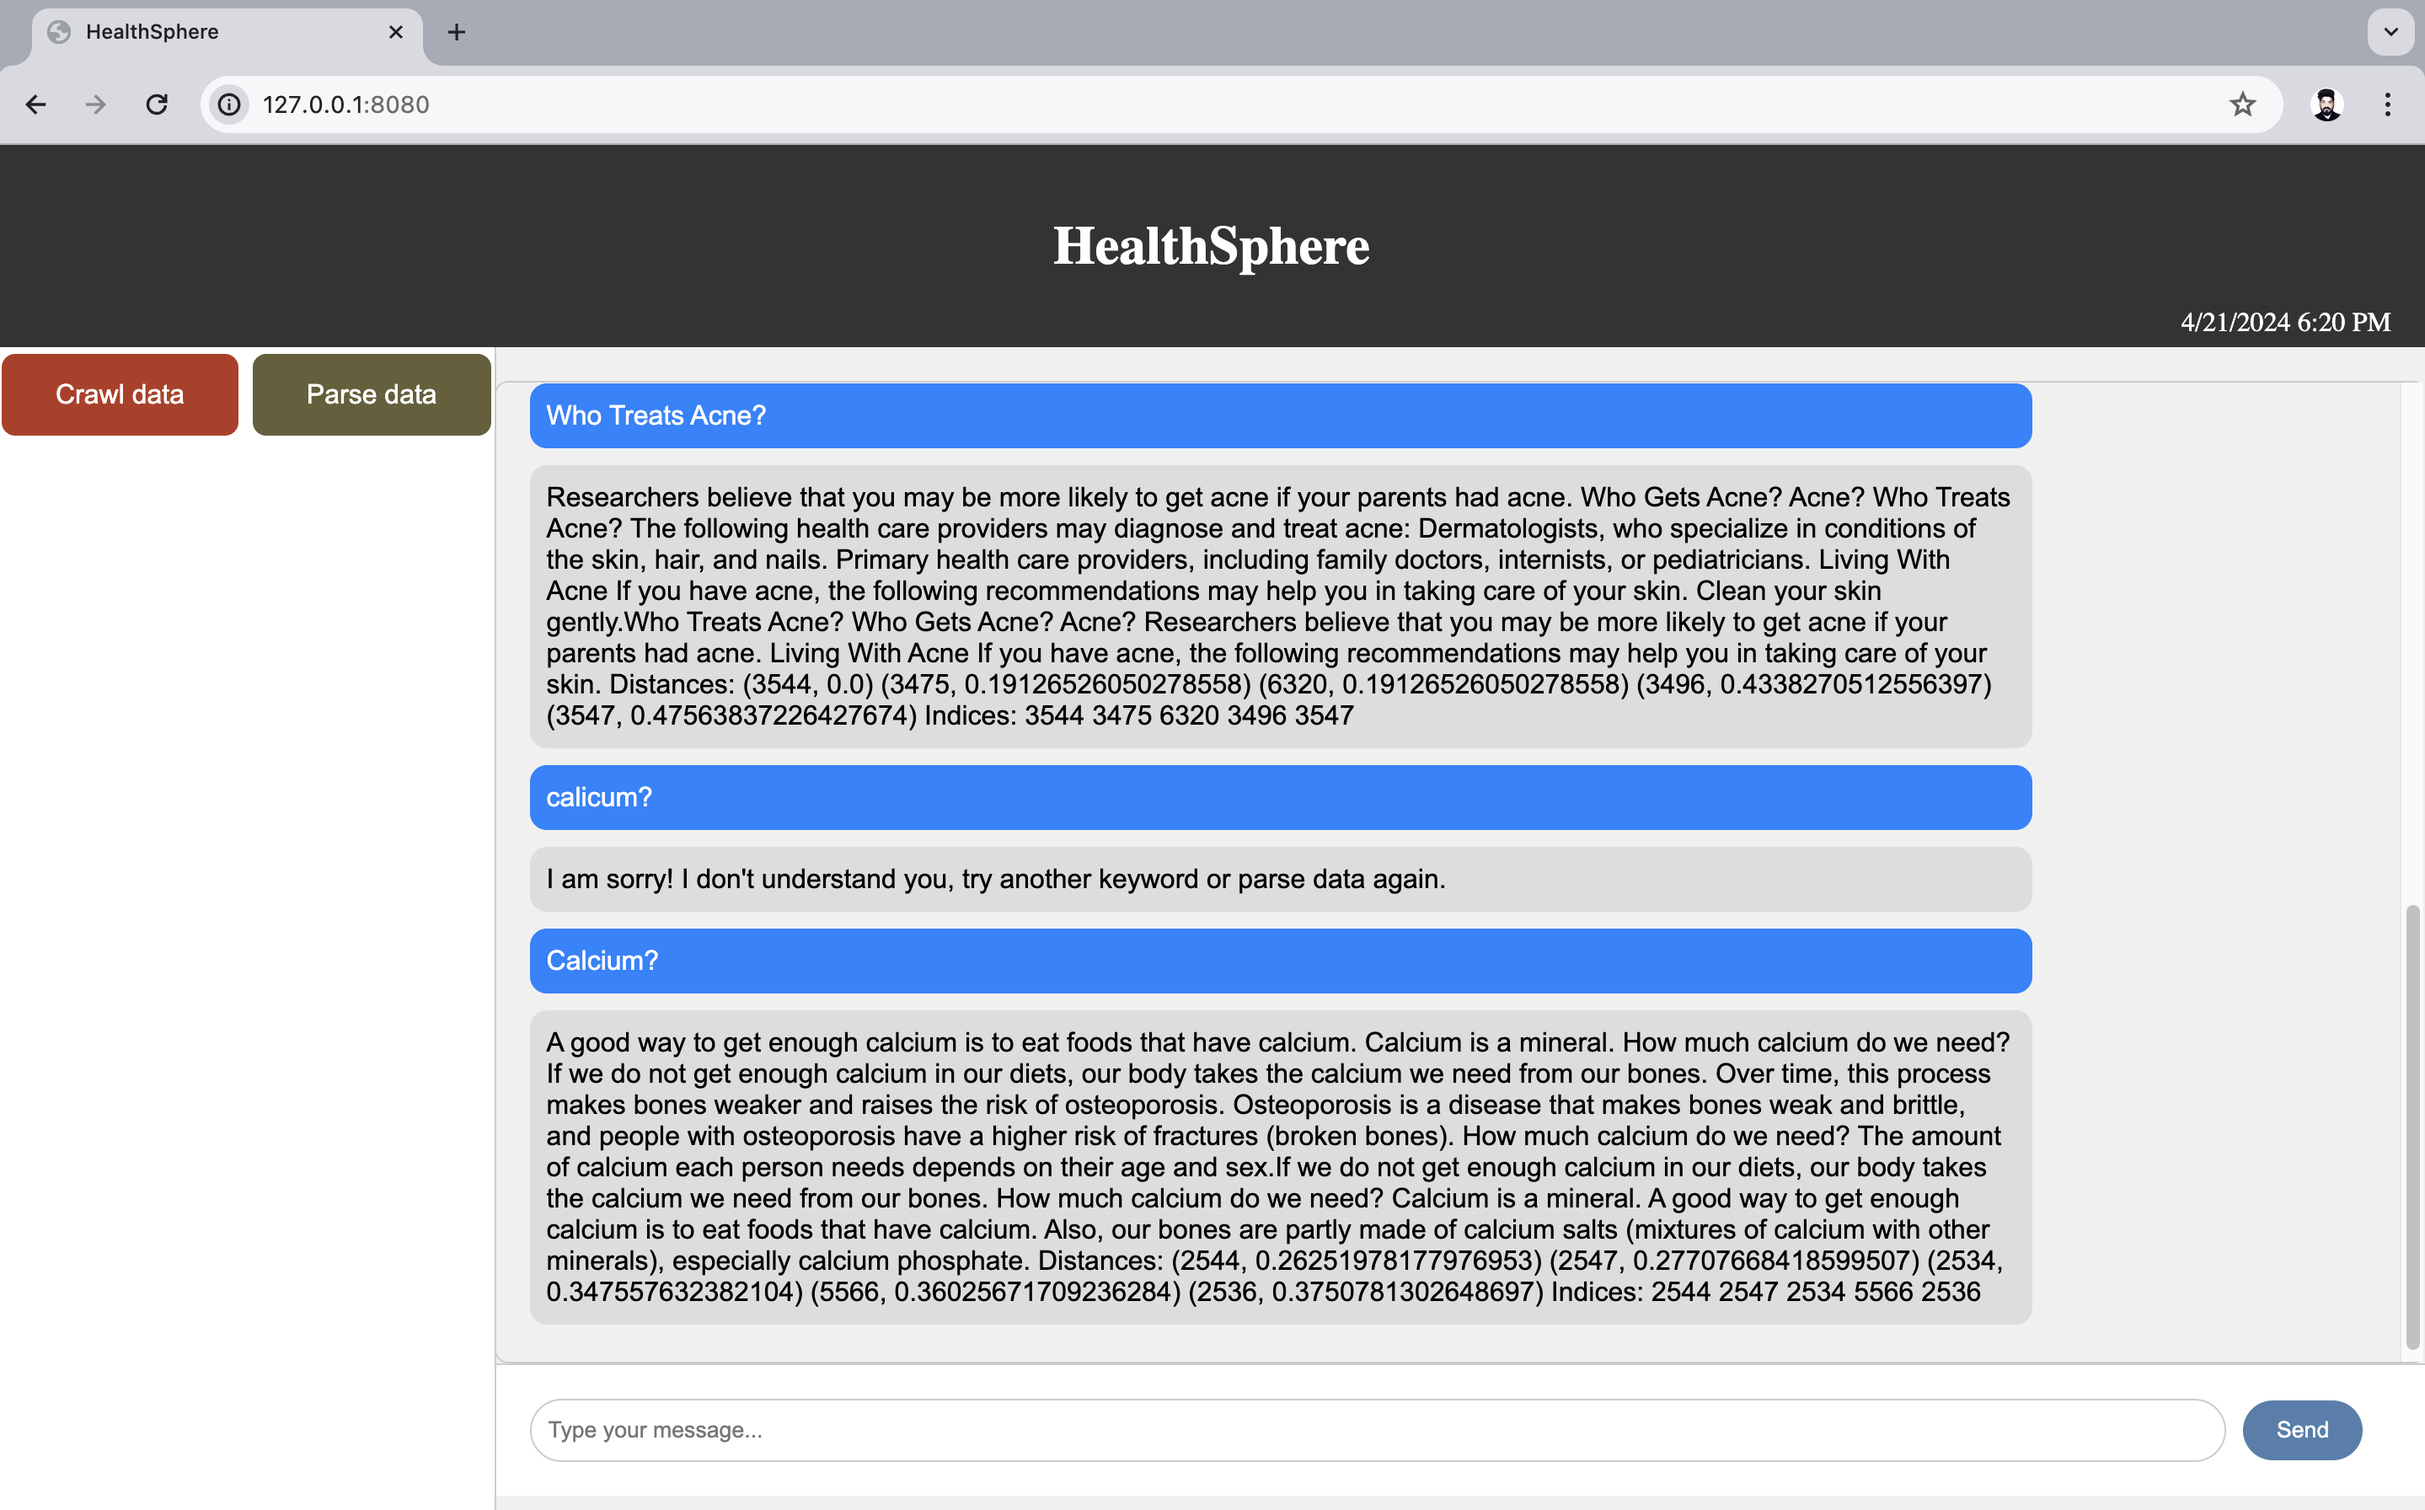
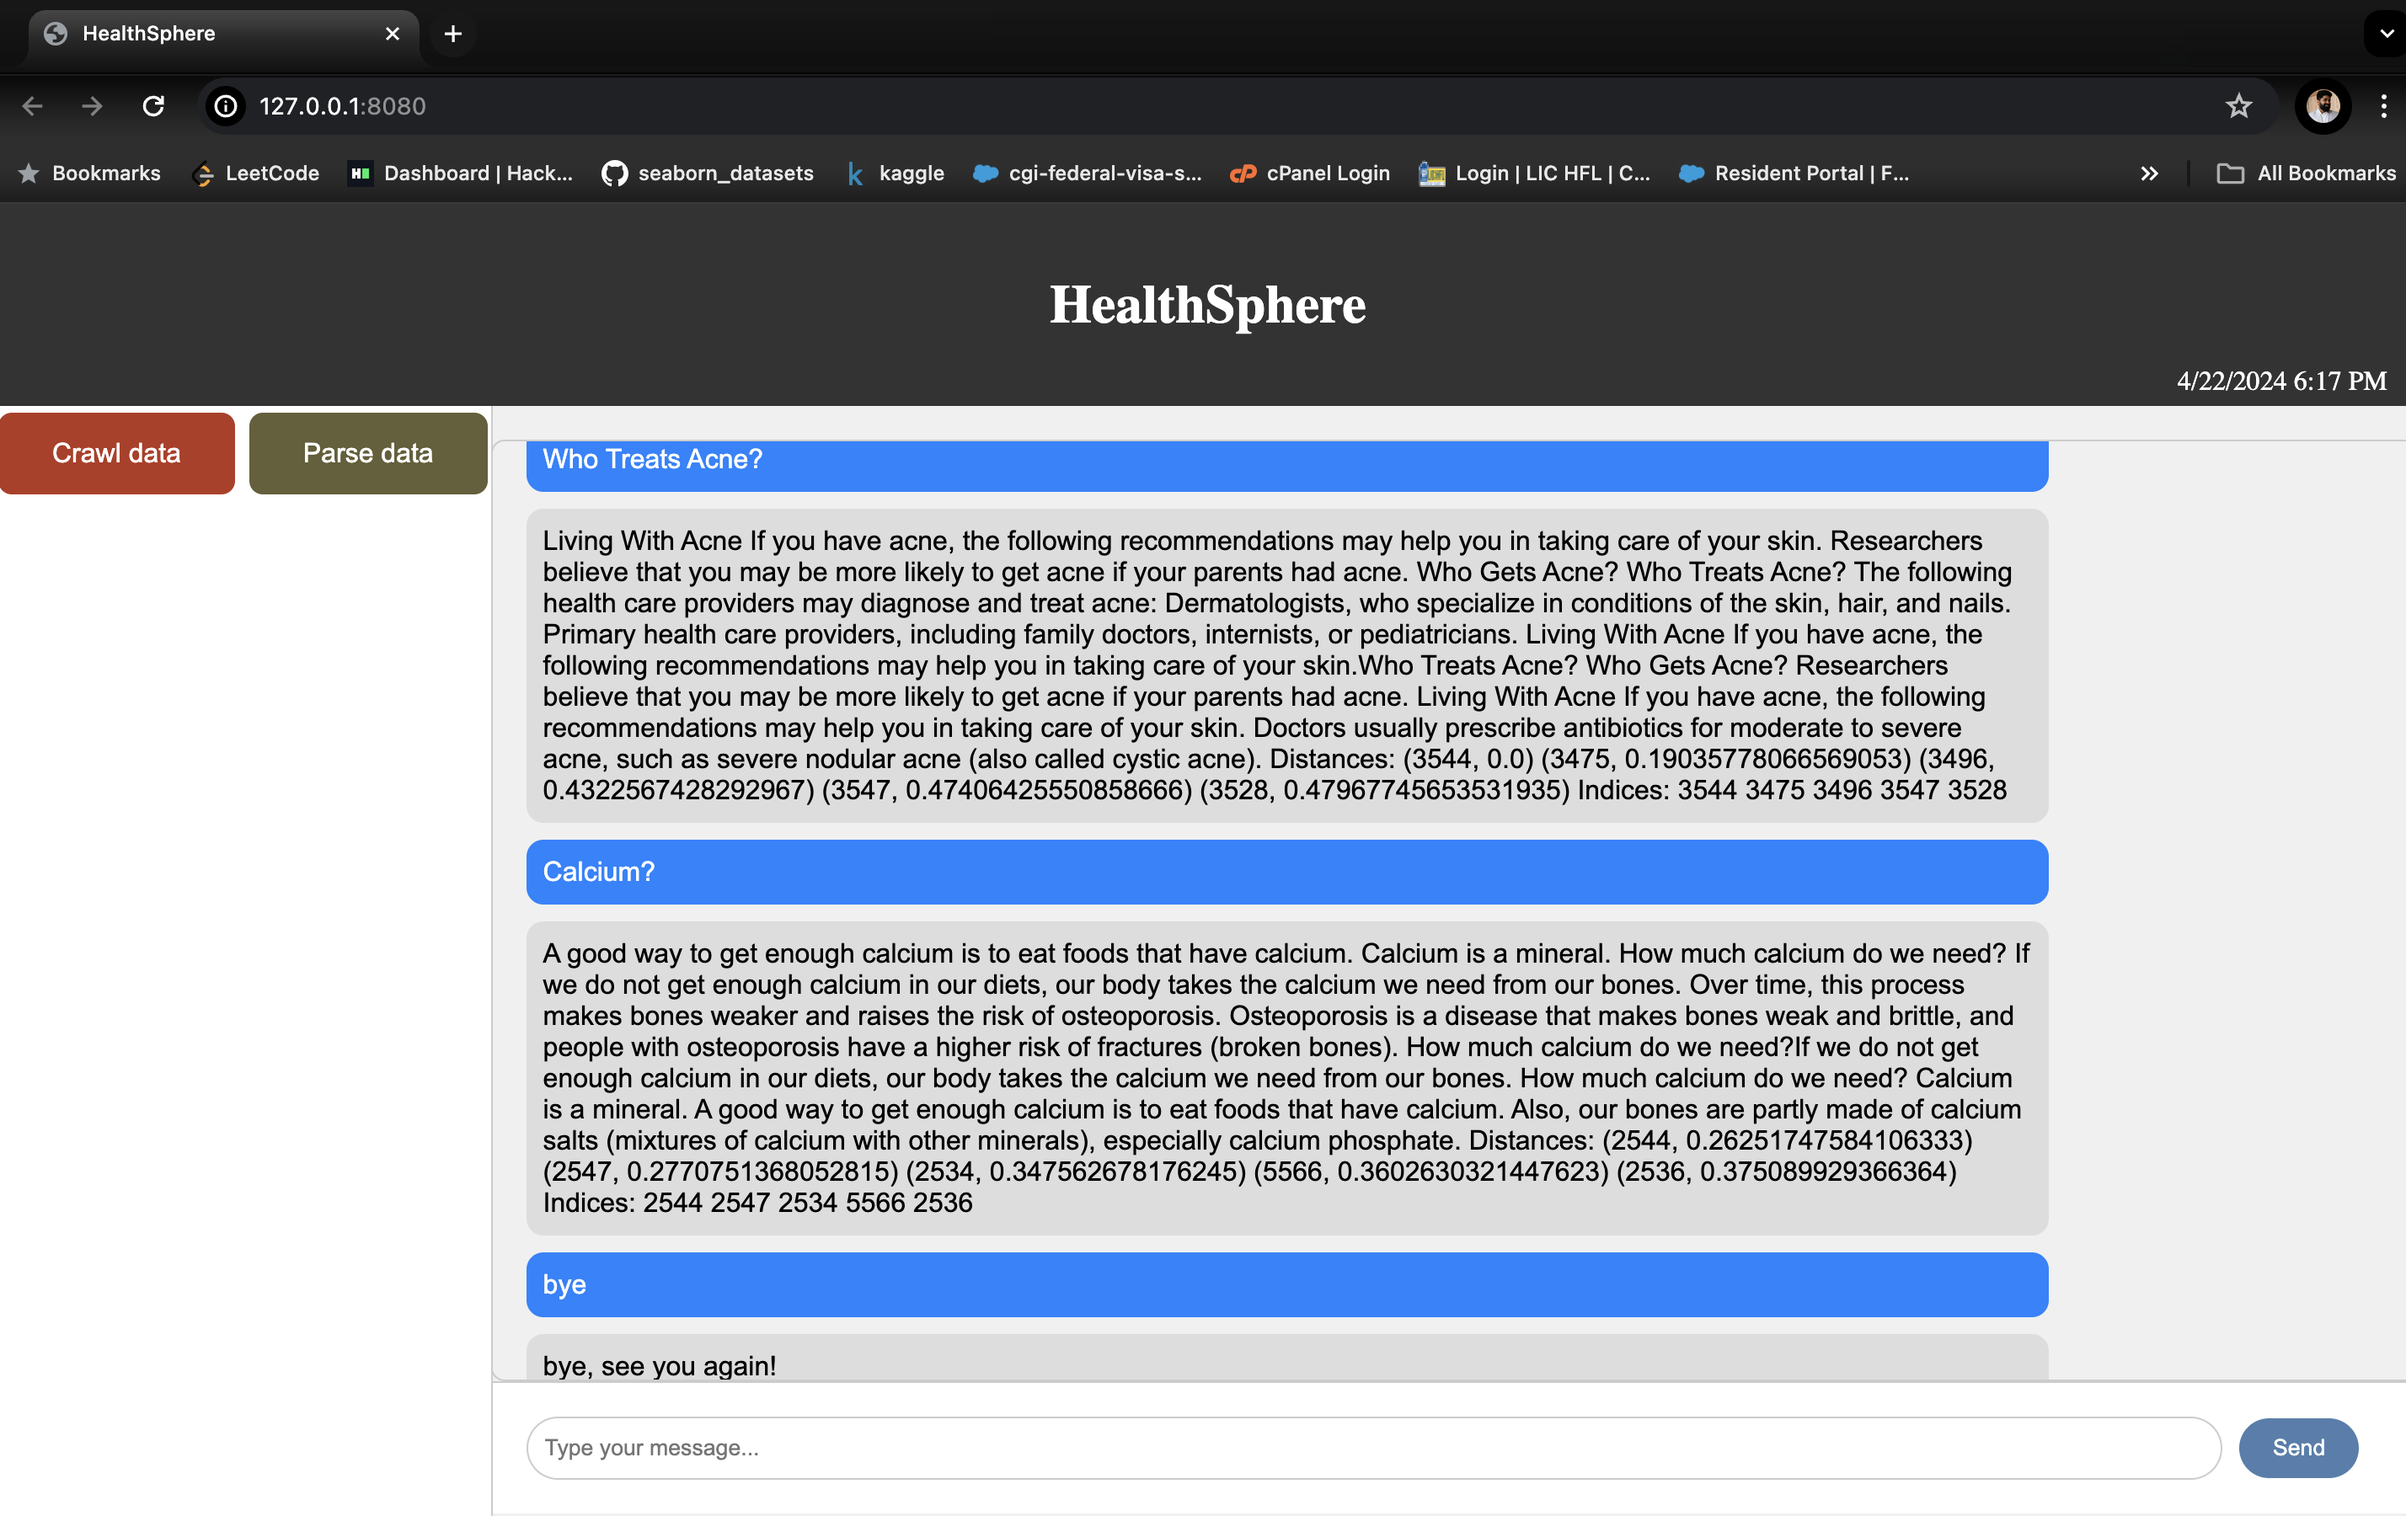
pre-final-changes-1

diff --git a/views/index.html b/views/index.html
@@ -398,7 +398,7 @@
         "good":"nice to hear that!",
         "im good":"nice to hear that!",
         "thanks good too":"nice to hear that!",
-        "who are you?": "I am a Healthsphere chatbot developed by uday kumar swamy, with limited training dataset of skin and bone related diseases from National Institute of Arthritis and Musculoskeletal and Skin Diseases (NIAMS)(https://www.niams.nih.gov/health-topics/all-diseases)",
+        "who are you?": "I am a Healthsphere chatbot developed by Uday Kumar Swamy under the guidance of Professor Jawahar Panchal. I am built on a limited training dataset of skin and bone related diseases from the National Institute of Arthritis and Musculoskeletal and Skin Diseases (NIAMS) (https://www.niams.nih.gov/health-topics/all-diseases).",
         "thanks!":"welcome!",
         "thanks":"welcome!",
         "how are you?":"thanks im good! how are you?",

diff --git a/parsedata.py b/parsedata.py
@@ -16,6 +16,7 @@ import string
 import logging
 import logging.config
 import configparser
+import pickle
 nltk.download('punkt')
 warnings.filterwarnings('ignore')
 
@@ -81,6 +82,12 @@ def tokenise(corpus):
     word_tokens = nltk.word_tokenize(corpus) #converts to list of words
     sentToken = sent_tokens[:4]
     wordToken = word_tokens[:4] 
+    # Assuming `data` is the data you want to save
+    data = {'sent_tokens': sent_tokens, 'word_tokens': word_tokens}
+
+    # Serialize and save the data to a pickle file
+    with open('data.pickle', 'wb') as f:
+        pickle.dump(data, f)
     
  
    
@@ -131,6 +138,11 @@ def response(user_response):
     Returns:
         str: The chatbot's response.
     """
+    with open('data.pickle', 'rb') as f:
+        data = pickle.load(f)
+    # Access the data from the loaded pickle file
+    sent_tokens = data['sent_tokens']
+    word_tokens = data['word_tokens']
     chatbot_response = ''
     sent_tokens.append(user_response)
     TfidfVec = TfidfVectorizer(tokenizer=LemNormalize, stop_words="english")
@@ -158,7 +170,7 @@ def response(user_response):
         for i in range(4):
           chatbot_response += sent_tokens[idx[i]] + '\n'
           
-        next_sentences = sent_tokens[idx[-1]+1:idx[-1]+5]
+        next_sentences = sent_tokens[idx[-1]+1:idx[-1]+4]
         chatbot_response += '\n'.join(next_sentences)
         distances_str = '\n'.join([str(d) for d in top_5_idx_distances])
         indices_str = '\n'.join([str(i) for i in matched_indices])

diff --git a/crawler/datacrawler.py b/crawler/datacrawler.py
@@ -53,7 +53,7 @@ def crawlUrls(url):
     return pdf_urls
 
 
-def downLoadThePages(pdf_urls,download_dir):
+def downLoadThePages(pdf_urls,download_dir):  
     """
     Downloads PDF files from a list of URLs and saves them to the specified directory.
 
